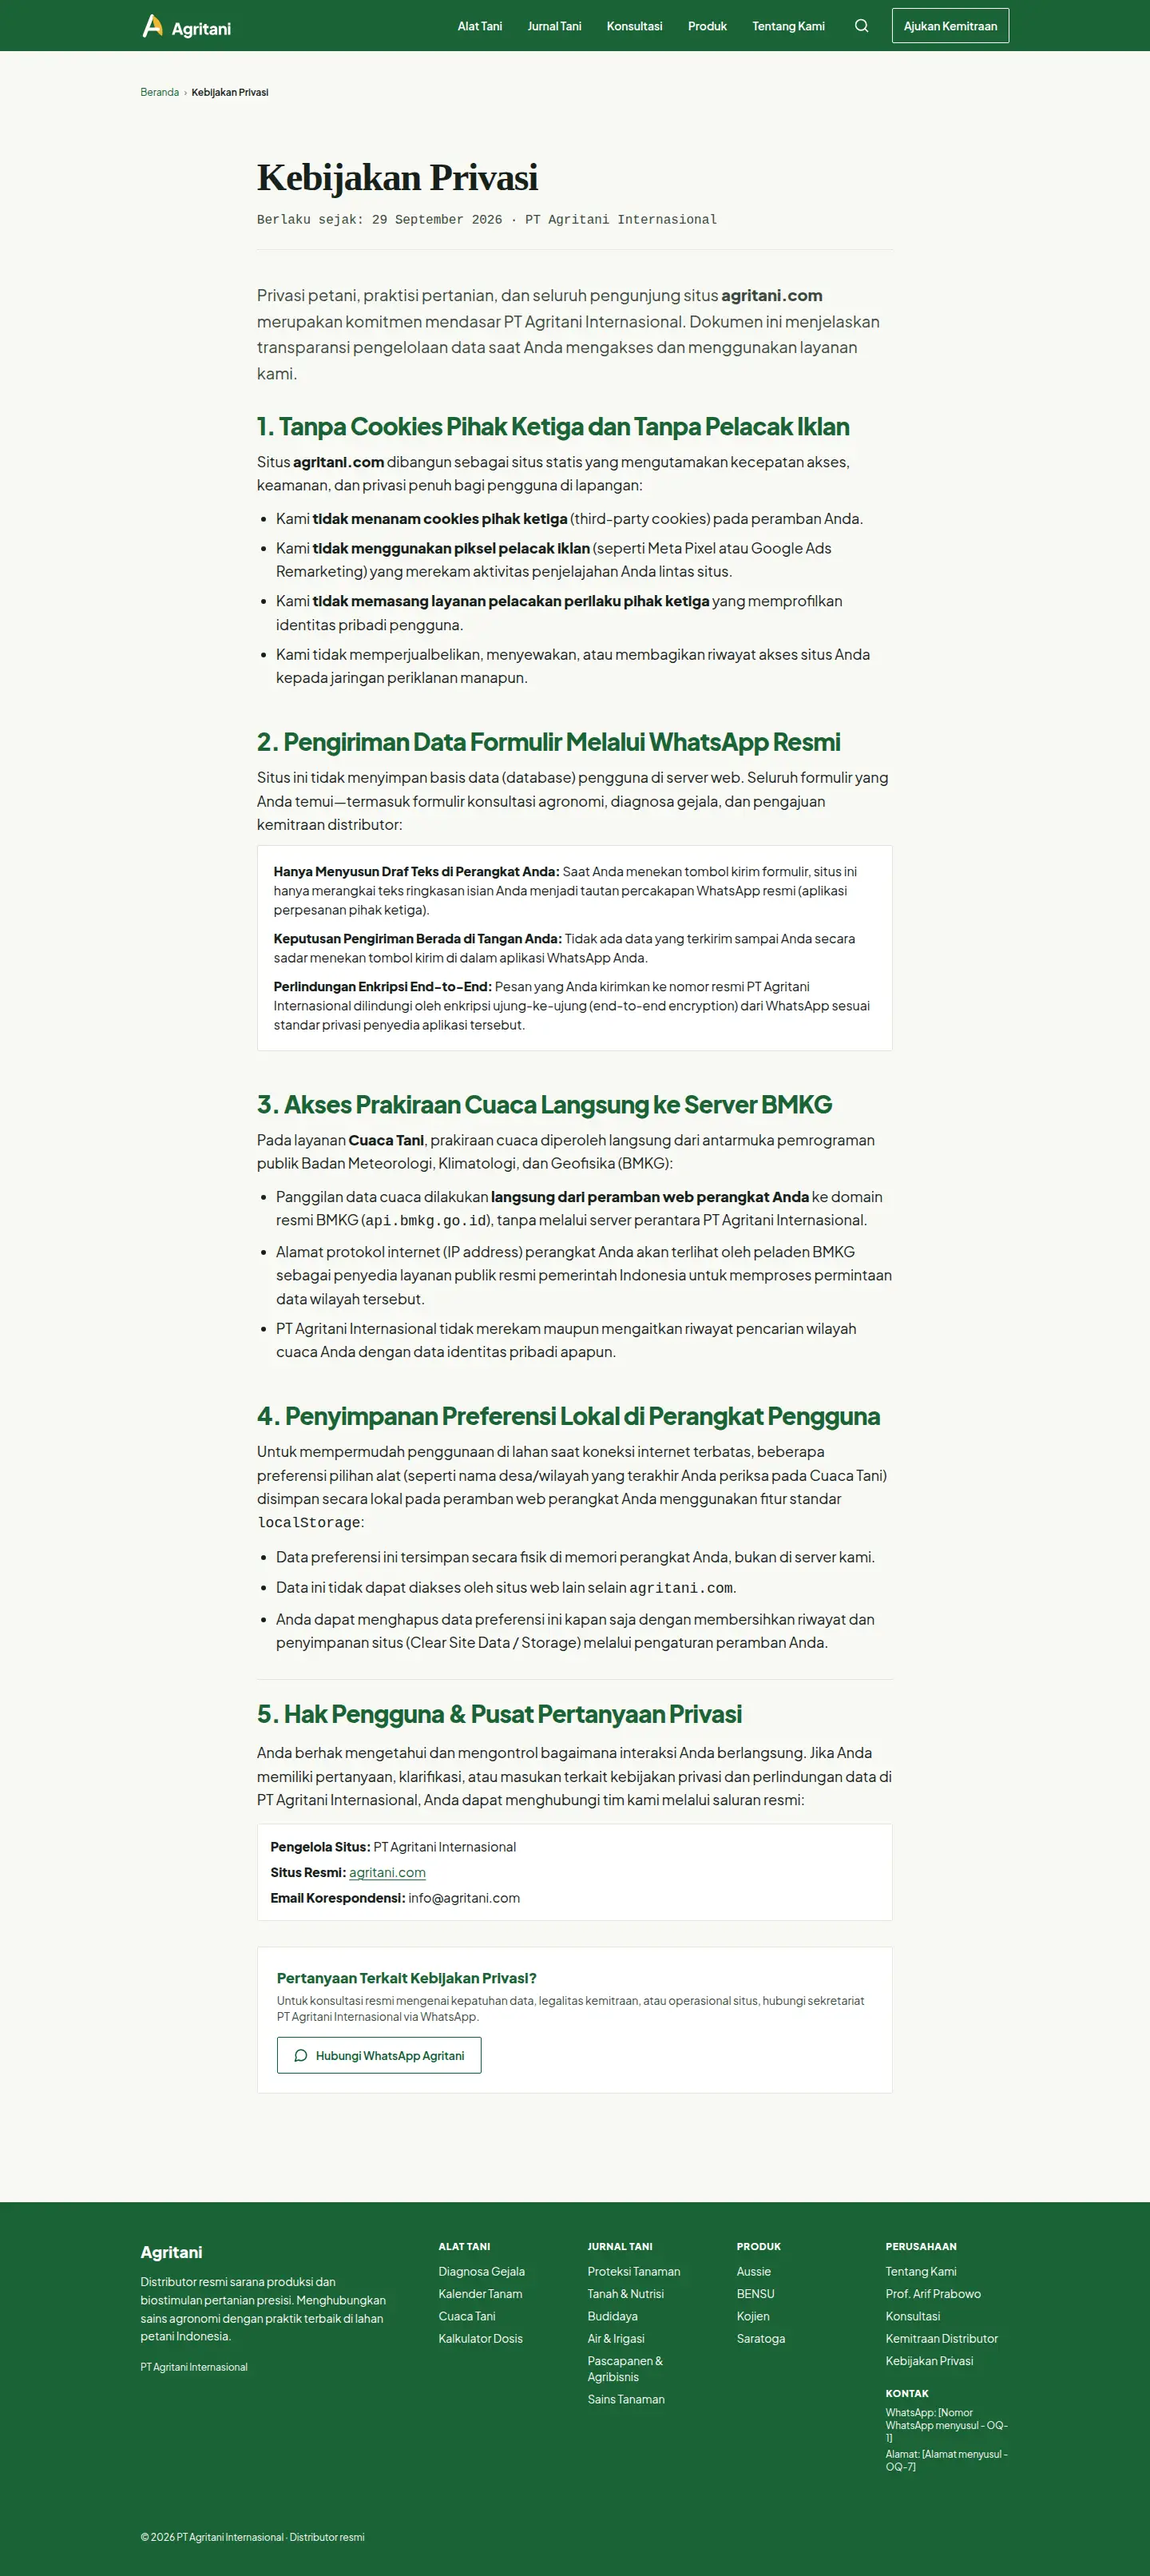
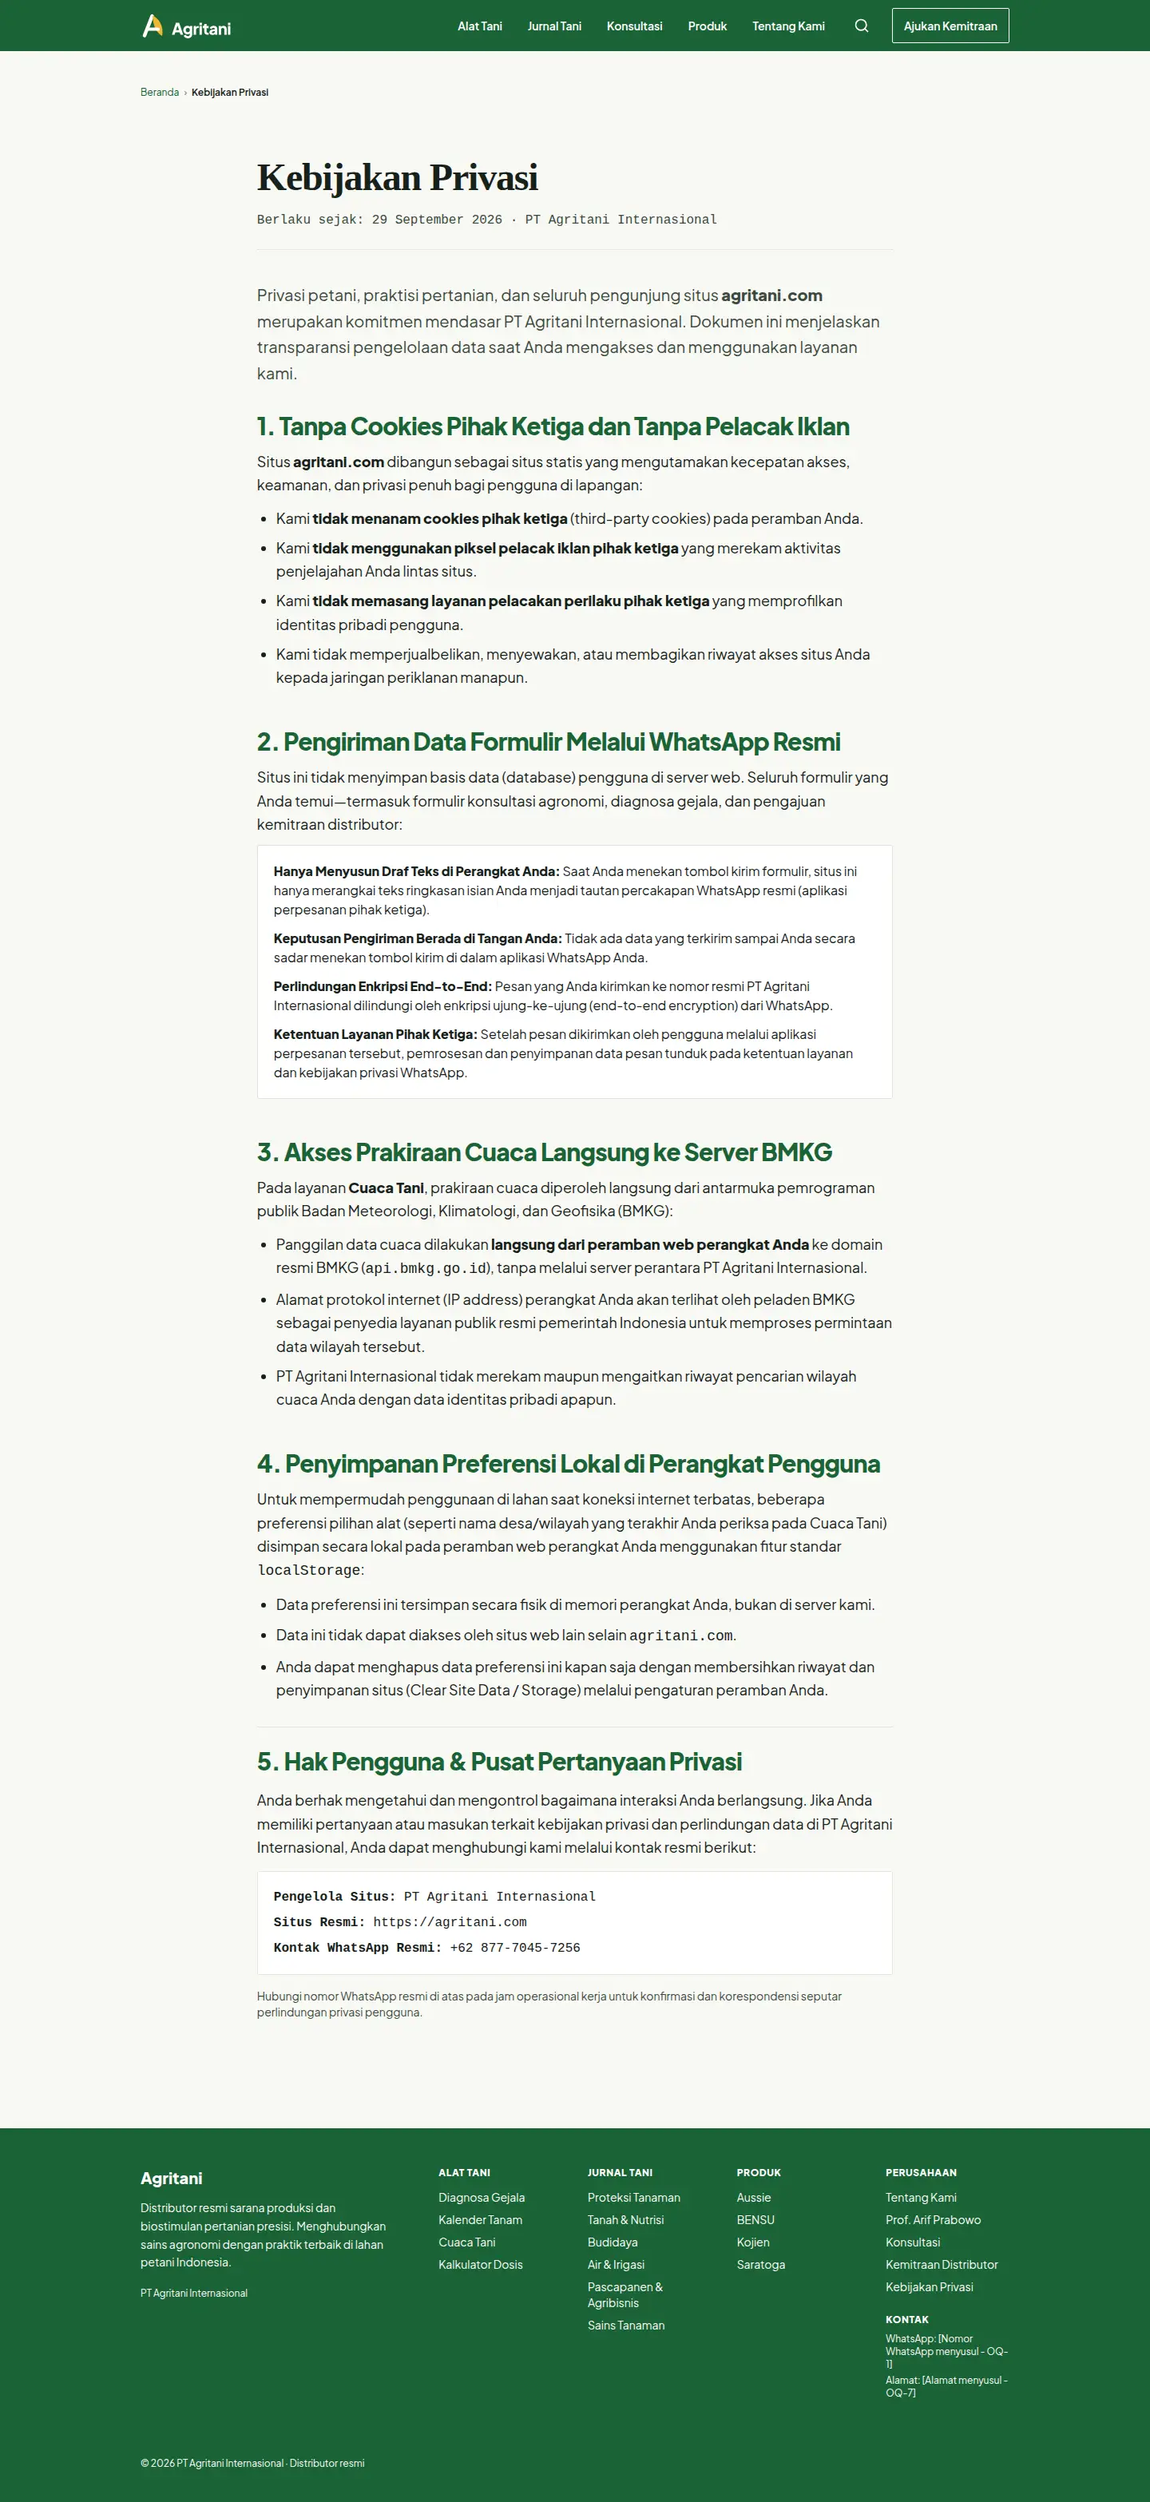
fix(T-17): revise privacy policy with zero WhatsApp CTAs, plain text official phone, and remove unverified reviewedBy from pages

Changed region(s): [[0.2188, 0.0619, 0.7812, 0.805], [0.0, 0.8359, 1.0, 0.9598], [0.7812, 0.0, 0.875, 0.031]]

diff --git a/STATUS.md b/STATUS.md
@@ -71,6 +71,12 @@ T-17 (Kebijakan Privasi) selesai diimplementasikan dan diverifikasi (RUN-2026092
 - Koleksi `pages`: Menambahkan `kebijakan-privasi.md`.
 - Verifikasi: 76/76 unit tests PASS, `astro check` 0 error, build 186 halaman PASS (check-seo PASS, check-csp 0/0/0 PASS), bukti UI browser di `proof/ui/t17/`.
 
+T-17 REVISE & Metadata Pages Cleanup selesai diimplementasikan dan diverifikasi (RUN-20260929T153603Z-1d7bab27):
+- Halaman `kebijakan-privasi.astro`: Menghapus email karangan info@agritani.com, menyajikan nomor kontak resmi WhatsApp sebagai teks biasa (+62 877-7045-7256), menghapus komponen ConsultPrompt (0 ajakan WhatsApp sesuai DESIGN §2.8), mengubah merek iklan menjadi istilah generik "piksel pelacak iklan pihak ketiga", dan menambahkan klausul ketentuan privasi WhatsApp.
+- Koleksi `pages`: Menghapus field `reviewedBy` dari semua file di `src/content/pages/` (termasuk 6 topik dan halaman statis) untuk mencegah atestasi palsu. Menetralkan seluruh pengantar hub topik.
+- Bukti UI WebP kualitas 70 tersimpan di `proof/ui/t17/kebijakan-privasi-390.webp` dan `proof/ui/t17/kebijakan-privasi-1440.webp`.
+- Verifikasi: 79/79 unit tests PASS, `npx astro check` 0 error, build 186 halaman PASS (check-seo PASS, check-csp 0/0/0 PASS).
+
 T-08 REVISE (Homepage Hibrida) selesai diimplementasikan dan diverifikasi (RUN-20260929T153010Z-5ebb5dd4):
 - Produk dirender dinamis dari koleksi `products` (`src/data/products.json`), menghapus teks manual.
 - Bio Prof. Arif Prabowo di beranda distandarkan menjadi: "Profesor Pertanian · Moderator Jurnal Tani PT Agritani Internasional".
@@ -102,6 +108,7 @@ Melanjutkan ke **T-11 (Katalog & Detail Produk `/produk/` dan `/produk/[slug]`)*
 - T-20 (termasuk revisi) menunggu review independen (boundary review R3) dari Claude/Paduka Ongki.
 - T-26 menunggu review independen (boundary review R3) dari Claude/Paduka Ongki.
 - T-08 menunggu review independen (boundary review R2) dari Claude/Paduka Ongki.
+- T-17 (termasuk revisi) menunggu review independen (boundary review R3) dari Claude/Paduka Ongki.
 
 ## Verification evidence
 

diff --git a/BUILD-LOG.md b/BUILD-LOG.md
@@ -740,12 +740,19 @@ Record only durable implementation changes, validation evidence, and gotchas tha
   - `npm test`: 79/79 unit tests PASS.
   - `PUBLIC_INCLUDE_DRAFTS=true npm run build`: 186 halaman terkompilasi, check-seo PASS, check-csp PASS (0/0/0).
 
+## 2026-09-29 — T-17: Kebijakan Privasi & Metadata Pages Cleanup (REVISED - PASS)
 
-
-
-
-
-
-
-
-
+- **Perbaikan Kebijakan Privasi (`src/pages/kebijakan-privasi.astro`)**:
+  - Menghapus alamat email karangan (`info@agritani.com`); saluran korespondensi privasi sepenuhnya diarahkan ke nomor WhatsApp resmi sebagai teks: `+62 877-7045-7256`.
+  - Menghapus komponen `ConsultPrompt`; tabel DESIGN §2.8 menetapkan Kebijakan Privasi dengan 0 ajakan WhatsApp (terverifikasi 0 elemen `data-cta="whatsapp"` pada HTML build).
+  - Menghapus penyebutan merek pihak ketiga ("Meta Pixel", "Google Ads Remarketing") sesuai NG-3, diganti dengan istilah teknis generik: "piksel pelacak iklan pihak ketiga".
+  - Menambahkan klausul perlindungan: setelah pesan terkirim, pemrosesan dan penyimpanan pesan tunduk pada ketentuan layanan dan kebijakan privasi WhatsApp.
+  - Mempertahankan tanggal berlaku kebijakan: 29 September 2026.
+  - Bukti render UI baru: `proof/ui/t17/kebijakan-privasi-390.webp` (213 KB) dan `proof/ui/t17/kebijakan-privasi-1440.webp` (247 KB).
+- **Pembersihan Metadata & Integritas Atribusi (`src/content/pages/`)**:
+  - Menghapus field `reviewedBy` dari semua file di `src/content/pages/` (termasuk 6 file hub topik, `tentang-kami.md`, `penulis-arif-prabowo.md`, dan `kebijakan-privasi.md`) guna mencegah atestasi palsu sebelum adanya persetujuan tertulis resmi.
+  - Memastikan seluruh pengantar hub topik hanya merangkum ruang lingkup topik secara umum tanpa angka, klaim hasil, maupun penyebutan nama institusi/lembaga.
+- **Verifikasi**:
+  - `npx astro check`: 0 errors.
+  - `npm test`: 79/79 unit tests PASS.
+  - `PUBLIC_INCLUDE_DRAFTS=true npm run build`: 186 halaman terkompilasi, check-seo PASS, check-csp 0/0/0 PASS.

diff --git a/src/content/pages/topik-pascapanen-agribisnis.md b/src/content/pages/topik-pascapanen-agribisnis.md
@@ -1,7 +1,6 @@
 ---
 title: "Pascapanen & Agribisnis Pertanian"
 description: "Tata kelola pascapanen, teknik pengeringan, penyimpanan hasil panen, standarisasi mutu ekspor, dan analisis kelayakan ekonomi agribisnis petani mandiri."
-reviewedBy: "Prof. Arif Prabowo"
 ---
 
-Panduan teknis pengolahan hasil panen untuk menekan kehilangan bobot (*losses*), meningkatkan rendemen dan nilai jual komoditas, serta manajemen usaha tani.
+Panduan teknis tata kelola hasil panen, metode pengeringan dan penyimpanan, standardisasi penanganan komoditas, serta manajemen usaha tani.

diff --git a/src/content/pages/topik-budidaya.md b/src/content/pages/topik-budidaya.md
@@ -1,7 +1,6 @@
 ---
 title: "Teknik Budidaya & Pembibitan"
 description: "Protokol teknis budidaya komoditas pertanian unggulan, manajemen pembibitan, persiapan lahan, hingga pemeliharaan tanaman intensif ramah lingkungan."
-reviewedBy: "Prof. Arif Prabowo"
 ---
 
-Panduan langkah demi langkah teknik budidaya tanaman pangan, hortikultura, perkebunan, dan urban farming untuk efisiensi biaya dan hasil panen berlimpah.
+Panduan teknis budidaya komoditas tanaman pangan, hortikultura, perkebunan, dan pertanian pekarangan sesuai kaidah agronomi dan pemeliharaan lapangan.

diff --git a/src/content/pages/topik-proteksi-tanaman.md b/src/content/pages/topik-proteksi-tanaman.md
@@ -1,7 +1,6 @@
 ---
 title: "Proteksi Tanaman: Hama & Penyakit"
 description: "Panduan identifikasi dini, pencegahan, dan penanganan terpadu serangan hama serta infeksi patogen tanaman pertanian tropis secara berkelanjutan di lahan."
-reviewedBy: "Prof. Arif Prabowo"
 ---
 
 Kumpulan artikel panduan identifikasi dan pengendalian hama serta penyakit tanaman pangan, hortikultura, dan perkebunan berbasis sains terapan dan pengamatan lapangan mandiri.

diff --git a/src/content/pages/kebijakan-privasi.md b/src/content/pages/kebijakan-privasi.md
@@ -2,7 +2,6 @@
 title: "Kebijakan Privasi"
 description: "Kebijakan privasi PT Agritani Internasional: komitmen perlindungan data tanpa pelacak pihak ketiga, penyimpanan lokal peramban, dan transparansi integrasi BMKG."
 updatedDate: 2026-09-29
-reviewedBy: "Tim Hukum & Kepatuhan Agritani"
 ---
 
 Kebijakan Privasi PT Agritani Internasional menetapkan komitmen perlindungan data dan transparansi privasi pengguna situs agritani.com.

diff --git a/src/content/pages/topik-air-irigasi.md b/src/content/pages/topik-air-irigasi.md
@@ -1,7 +1,6 @@
 ---
 title: "Manajemen Air & Sistem Irigasi"
 description: "Strategi pengelolaan sumber daya air pertanian, sistem irigasi hemat air, mitigasi kemarau, dan teknik fertigasi presisi untuk berbagai topografi lahan."
-reviewedBy: "Prof. Arif Prabowo"
 ---
 
 Panduan komprehensif efisiensi air lahan pertanian, mulai dari sistem irigasi tetes, kabut, curah, hingga manajemen embung penampung air hujan di perdesaan.

diff --git a/src/content/pages/topik-sains-tanaman.md b/src/content/pages/topik-sains-tanaman.md
@@ -1,7 +1,6 @@
 ---
 title: "Sains Tanaman & Fisiologi"
 description: "Pemahaman mendalam tentang fisiologi tumbuhan, metabolisme seluler, respon hormonal, serta mekanisme imunitas tanaman dalam menghadapi cekaman lingkungan."
-reviewedBy: "Prof. Arif Prabowo"
 ---
 
 Artikel ilmiah yang mengupas dasar biologis proses tumbuh kembang tanaman, jalur fotosintesis, translokasi asimilat, dan aktivasi imunitas alami sel tumbuhan.

diff --git a/src/content/pages/topik-tanah-nutrisi.md b/src/content/pages/topik-tanah-nutrisi.md
@@ -1,7 +1,6 @@
 ---
 title: "Tanah & Nutrisi Tanaman"
 description: "Kajian mendalam kesuburan tanah, biologi mikrobioma perakaran, pemupukan berimbang, serta aktivasi biostimulan untuk produktivitas pertanian optimal."
-reviewedBy: "Prof. Arif Prabowo"
 ---
 
 Kumpulan artikel ilmiah praktis mengenai manajemen kesuburan tanah, dinamika hara makro dan mikro, pembenah tanah, serta teknologi aktivasi nutrisi tanaman.

diff --git a/src/content/pages/tentang-kami.md b/src/content/pages/tentang-kami.md
@@ -2,7 +2,6 @@
 title: "Tentang PT Agritani Internasional"
 description: "Profil PT Agritani Internasional, distributor resmi sarana pertanian dan bioteknologi tanaman presisi hasil aliansi teknologi teruji dari Thailand dan Jepang."
 updatedDate: 2026-09-29
-reviewedBy: "Tim Agritani"
 ---
 
 PT Agritani Internasional adalah distributor resmi sarana produksi pertanian dan bioteknologi tanaman modern di Indonesia.

diff --git a/src/content/pages/penulis-arif-prabowo.md b/src/content/pages/penulis-arif-prabowo.md
@@ -2,7 +2,6 @@
 title: "Prof. Arif Prabowo, Penulis"
 description: "Halaman profil Prof. Arif Prabowo, Profesor Pertanian dan moderator Jurnal Tani PT Agritani Internasional yang memuat daftar artikel publikasi terbit."
 updatedDate: 2026-09-29
-reviewedBy: "Tim Agritani"
 ---
 
 Prof. Arif Prabowo adalah Profesor Pertanian dan moderator Jurnal Tani PT Agritani Internasional.
